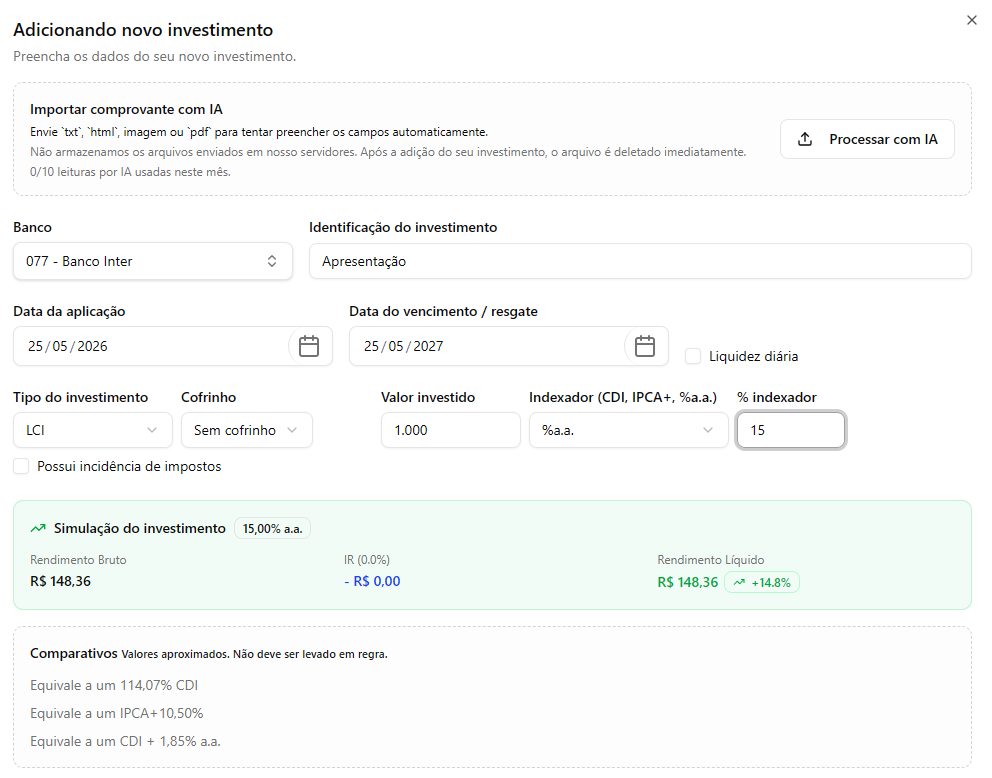
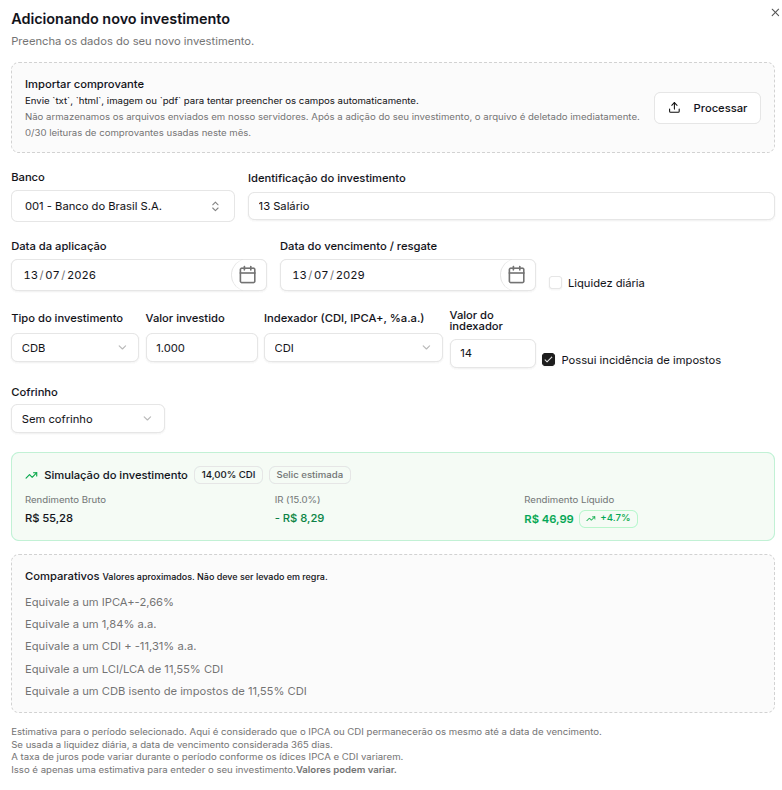
Improving landing

diff --git a/landing/nextjs-version/src/app/landing/components/features-section.tsx b/landing/nextjs-version/src/app/landing/components/features-section.tsx
@@ -184,6 +184,11 @@ export const fourthFeatures = [
     title: 'Comparação',
     description: 'A comparação permitirá analisar se o seu investimento é de fato interessante ou se pode ser melhor investido em outro banco.',
   },
+  {
+    icon: ChartNoAxesGantt,
+    title: 'Comprovante',
+    description: 'Importe seu comprovante de investimento e deixe o RendaTop preencher os dados para você.',
+  }
 ]
 
 
